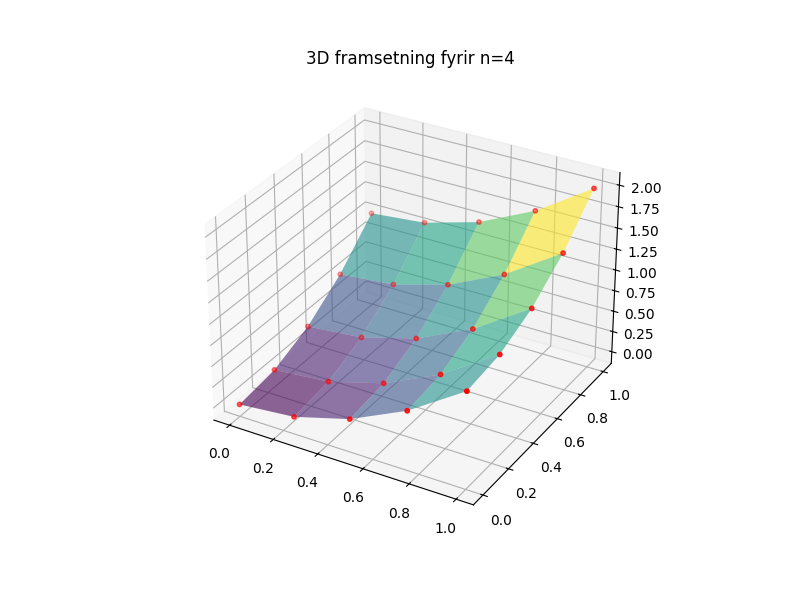
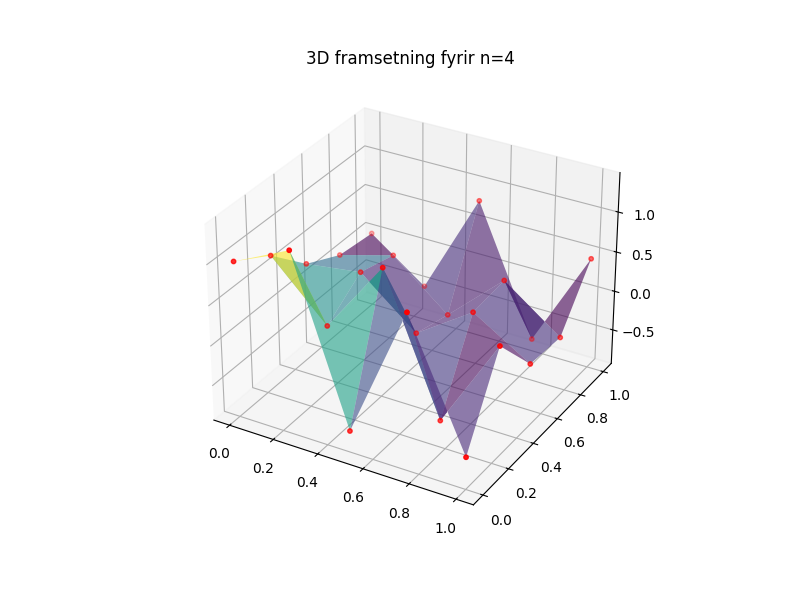
samanburður

diff --git a/romberg3.py b/romberg3.py
@@ -1,22 +1,22 @@
 import numpy as np
+import pandas as pd
+import time
 import matplotlib.pyplot as plt
-import os
-import matplotlib.patches as patches
-from mpl_toolkits.mplot3d.art3d import Poly3DCollection
 from scipy.integrate import dblquad
 
-# Ensure output directory exists
-output_dir = "output"
-os.makedirs(output_dir, exist_ok=True)
+# Föll sem við ætlum að prófa
+test_functions = {
+    "sin_cos_exp": lambda x, y: np.sin(10*x) * np.cos(10*y) + np.exp(-5 * (x**2 + y**2)),
+    "gaussian_peak": lambda x, y: np.exp(-10 * ((x - 0.3)**2 + (y - 0.7)**2)),
+    "polynomial_exp": lambda x, y: (x**3 + y**4) * np.exp(-x - y),
+    "sin_ripple": lambda x, y: np.sin(5 * np.pi * x) * np.sin(5 * np.pi * y),
+    "fractal_mix": lambda x, y: np.sin(10*x) * np.cos(10*y) + np.exp(-5 * ((x-0.5)**2 + (y-0.5)**2)) + 0.5 * np.exp(-10 * ((x-0.2)**2 + (y-0.8)**2)),
+}
 
-# Exact integral for the same region [0,1] x [0,1]
-def exact_integral():
-    result, _ = dblquad(lambda x, y: x**2 + y**2, 0, 1, lambda y: 0, lambda y: 1)
-    return result
+# Reikna nákvæmt gildi fyrir hvert fall
+exact_integrals = {name: dblquad(f, 0, 1, lambda y: 0, lambda y: 1)[0] for name, f in test_functions.items()}
 
-#####################
-### TRAPEZOIDAL RULE
-#####################
+# Trapisuregla í 2D
 def trapezoidal_2d(f, a, b, c, d, n):
     x = np.linspace(a, b, n+1)
     y = np.linspace(c, d, n+1)
@@ -26,27 +26,23 @@ def trapezoidal_2d(f, a, b, c, d, n):
     integral = 0
     for i in range(n):
         for j in range(n):
-            integral += 0.25 * (f(x[i], y[j]) + f(x[i+1], y[j]) + f(x[i], y[j+1]) + f(x[i+1], y[j+1])) * hx * hy
+            integral += f(x[i], y[j]) * hx * hy
+
     return integral
 
-def romberg_2d(f, a, b, c, d, max_iter=5):
+# Romberg fyrir trapisu
+def romberg_trapezoidal_2d(f, a, b, c, d, max_iter=5):
     R = np.zeros((max_iter, max_iter))
-    exact_value = exact_integral()
-    errors_trapezoidal = []
-
     for i in range(max_iter):
-        n = 2**i
+        n = 2**i  # Fjöldi skiptinga
         R[i, 0] = trapezoidal_2d(f, a, b, c, d, n)
-        errors_trapezoidal.append(abs(R[i, 0] - exact_value))
 
         for j in range(1, i + 1):
             R[i, j] = (4**j * R[i, j-1] - R[i-1, j-1]) / (4**j - 1)
 
-    return R[max_iter-1, max_iter-1], errors_trapezoidal
+    return R[max_iter-1, max_iter-1]
 
-#####################
-### TRIANGLE METHOD
-#####################
+# Miðpunktsregla fyrir þríhyrninga
 def midpoint_triangle(f, tri):
     x1, y1 = tri[0]
     x2, y2 = tri[1]
@@ -56,15 +52,18 @@ def midpoint_triangle(f, tri):
     area = 0.5 * abs((x2 - x1) * (y3 - y1) - (x3 - x1) * (y2 - y1))
     return f(xm, ym) * area
 
+# Skipta þríhyrningi í fjóra minni þríhyrninga
 def subdivide_triangle(tri):
     x1, y1 = tri[0]
     x2, y2 = tri[1]
     x3, y3 = tri[2]
 
+    # Miðpunktar
     m12 = ((x1 + x2) / 2, (y1 + y2) / 2)
     m23 = ((x2 + x3) / 2, (y2 + y3) / 2)
     m31 = ((x3 + x1) / 2, (y3 + y1) / 2)
 
+    # Skilgreina fjóra minni þríhyrninga
     return [
         [tri[0], m12, m31],
         [m12, tri[1], m23],
@@ -72,14 +71,13 @@ def subdivide_triangle(tri):
         [m12, m23, m31]
     ]
 
+# Romberg fyrir þríhyrninga
 def romberg_triangles(f, max_iter=5):
     tri1 = [(0, 0), (1, 0), (0, 1)]
     tri2 = [(1, 0), (1, 1), (0, 1)]
 
     R1 = np.zeros((max_iter, max_iter))
     R2 = np.zeros((max_iter, max_iter))
-    exact_value = exact_integral()
-    errors_triangles = []
 
     triangles1 = [tri1]
     triangles2 = [tri2]
@@ -88,9 +86,7 @@ def romberg_triangles(f, max_iter=5):
         R1[i, 0] = sum(midpoint_triangle(f, t) for t in triangles1)
         R2[i, 0] = sum(midpoint_triangle(f, t) for t in triangles2)
 
-        total_approx = R1[i, 0] + R2[i, 0]
-        errors_triangles.append(abs(total_approx - exact_value))
-
+        # Skipta þríhyrningum frekar niður
         triangles1 = [sub for t in triangles1 for sub in subdivide_triangle(t)]
         triangles2 = [sub for t in triangles2 for sub in subdivide_triangle(t)]
 
@@ -98,38 +94,52 @@ def romberg_triangles(f, max_iter=5):
             R1[i, j] = (4**j * R1[i, j-1] - R1[i-1, j-1]) / (4**j - 1)
             R2[i, j] = (4**j * R2[i, j-1] - R2[i-1, j-1]) / (4**j - 1)
 
-    return R1[max_iter-1, max_iter-1] + R2[max_iter-1, max_iter-1], errors_triangles
+    return R1[max_iter-1, max_iter-1] + R2[max_iter-1, max_iter-1]
 
-##########################
-### FUNCTION TO INTEGRATE
-##########################
-def test_function(x, y):
-    return x**2 + y**2
+# Niðurstöður
+results = []
 
-################################
-### RUN INTEGRATION & PLOT ERROR
-################################
-a, b = 0, 1
-c, d = 0, 1
-max_iter = 10
+for name, func in test_functions.items():
+    exact = exact_integrals[name]
 
-result_trapezoidal, errors_trapezoidal = romberg_2d(test_function, a, b, c, d, max_iter)
-result_triangles, errors_triangles = romberg_triangles(test_function, max_iter)
+    # Mæla tíma og skekkjur
+    start_time = time.time()
+    trap_result = romberg_trapezoidal_2d(func, 0, 1, 0, 1, max_iter=5)
+    trap_time = time.time() - start_time
+    trap_error = abs(trap_result - exact)
 
-# Plot error convergence
-plt.figure(figsize=(8, 6))
-iterations = np.arange(1, max_iter+1)
-plt.plot(iterations, errors_trapezoidal, marker='o', linestyle='-', label="Trapezoidal Rule", color="blue")
-plt.plot(iterations, errors_triangles, marker='s', linestyle='--', label="Triangle-Based", color="red")
+    start_time = time.time()
+    tri_result = romberg_triangles(func, max_iter=5)
+    tri_time = time.time() - start_time
+    tri_error = abs(tri_result - exact)
 
-plt.yscale("log")  # Log scale to better show convergence
-plt.xlabel("Iteration")
-plt.ylabel("Absolute Error")
-plt.title("Error Convergence of Romberg Integration Methods")
+    results.append([name, exact, trap_result, trap_error, trap_time, tri_result, tri_error, tri_time])
+
+# Búa til DataFrame
+df_results = pd.DataFrame(results, columns=["Fall", "Nákvæmt heildi", "Trapisuregla", "Trapisu skekkja",
+                                            "Trapisu keyrslutími", "Þríhyrningsaðferð", "Þríhyrnings skekkja", "Þríhyrnings keyrslutími"])
+
+# Prenta niðurstöður í fallegu töfluformi
+print("\nSamanburður á Romberg Heildun\n")
+print(df_results.to_string(index=False))
+
+# Plotta samanburð á skekkju
+plt.figure(figsize=(8,5))
+plt.bar(df_results["Fall"], df_results["Trapisu skekkja"], label="Trapisu skekkja", alpha=0.7)
+plt.bar(df_results["Fall"], df_results["Þríhyrnings skekkja"], label="Þríhyrnings skekkja", alpha=0.7)
+plt.xticks(rotation=45)
+plt.yscale("log")  # Nota log-skala til að sjá betur mismuninn
+plt.ylabel("Error")
 plt.legend()
-plt.grid(True, which="both", linestyle="--", linewidth=0.5)
-plt.savefig(os.path.join(output_dir, "error_convergence.png"))
+plt.title("Samanburður á skekkju")
 plt.show()
 
-print(f"\nFinal Romberg Integration Result (Trapezoidal Rule): {result_trapezoidal:.6f}")
-print(f"Final Romberg Integration Result (Triangles): {result_triangles:.6f}")
+# Plotta samanburð á reiknitíma
+plt.figure(figsize=(8,5))
+plt.bar(df_results["Fall"], df_results["Þríhyrnings keyrslutími"], label="Þríhyrnings keyrslutími", alpha=0.7)
+plt.bar(df_results["Fall"], df_results["Trapisu keyrslutími"], label="Trapisu keyrslutími", alpha=0.7)
+plt.xticks(rotation=45)
+plt.ylabel("Time (seconds)")
+plt.legend()
+plt.title("Samanburður á reiknitíma")
+plt.show()

diff --git a/romberg2.py b/romberg2.py
@@ -8,11 +8,11 @@ from mpl_toolkits.mplot3d.art3d import Poly3DCollection
 output_dir = "output"
 os.makedirs(output_dir, exist_ok=True)
 
-def exact_integral():
+def exact_integral(f):
     """
     Computes the exact integral for comparison using numerical integration.
     """
-    result, _ = dblquad(lambda x, y: x**2 + y**2, 0, 1, lambda y: 0, lambda y: 1)
+    result, _ = dblquad(f, 0, 1, lambda y: 0, lambda y: 1)
     return result
 
 def midpoint_triangle(f, tri):
@@ -114,7 +114,7 @@ def romberg_triangles(f, max_iter=5):
     R1 = np.zeros((max_iter, max_iter))
     R2 = np.zeros((max_iter, max_iter))
 
-    exact_value = exact_integral()
+    exact_value = exact_integral(f)
 
     print(f"Rétt gildi: {exact_value:.6f}")
     print("Ítrun     | Nálgun        | Skekkja")
@@ -129,7 +129,7 @@ def romberg_triangles(f, max_iter=5):
         R2[i, 0] = sum(midpoint_triangle(f, t)[0] for t in triangles2)
 
         plot_triangles(triangles1, triangles2, iter_num=i)
-        plot_3d_triangles(f, triangles1, triangles2, iter_num=i)  # New dynamic visualization
+        plot_3d_triangles(f, triangles1, triangles2, iter_num=i)
 
         triangles1 = [sub for t in triangles1 for sub in subdivide_triangle(t)]
         triangles2 = [sub for t in triangles2 for sub in subdivide_triangle(t)]
@@ -146,11 +146,12 @@ def romberg_triangles(f, max_iter=5):
 
     final_result = R1[max_iter-1, max_iter-1] + R2[max_iter-1, max_iter-1]
 
-    print("\nLoka niðurstaða Romberg Heildunar: (þríhyrninga): {:.6f}".format(final_result))
+    print("\nLoka niðurstaða Romberg Heildunar (þríhyrninga): {:.6f}".format(final_result))
     return final_result
 
-def test_function(x, y):
-    return x**2 + y**2
+# Define function once and pass it as an argument
+test_function = lambda x, y: np.exp(-5 * ((x - 0.5)**2 + (y - 0.5)**2)) + \
+                             0.5 * np.exp(-10 * ((x - 0.2)**2 + (y - 0.8)**2))
 
 # Execute the triangle-based Romberg integration with enhanced visualization
 romberg_triangles(test_function, max_iter=5)

diff --git a/romberg.py b/romberg.py
@@ -9,11 +9,11 @@ from scipy.integrate import dblquad
 output_dir = "output"
 os.makedirs(output_dir, exist_ok=True)
 
-def exact_integral():
+def exact_integral(f):
     """
     Computes the exact integral for comparison using numerical integration.
     """
-    result, _ = dblquad(lambda x, y: x**2 + y**2, 0, 1, lambda y: 0, lambda y: 1)
+    result, _ = dblquad(f, 0, 1, lambda y: 0, lambda y: 1)
     return result
 
 def trapezoidal_2d(f, a, b, c, d, n, ax=None, plot_3d=False):
@@ -56,6 +56,7 @@ def trapezoidal_2d(f, a, b, c, d, n, ax=None, plot_3d=False):
         plt.close()
 
     return integral
+
 def plot_trapezoids(a, b, c, d, n, iter_num):
     """
     Plots the subdivided rectangles for the trapezoidal rule in 2D.
@@ -89,7 +90,7 @@ def romberg_2d(f, a, b, c, d, max_iter=5):
     Now includes 2D visualization of trapezoidal subdivisions.
     """
     R = np.zeros((max_iter, max_iter))
-    exact_value = exact_integral()
+    exact_value = exact_integral(f)
 
     print(f"Rétt gildi: {exact_value:.6f}")
     print("Ítrun     | Nálgun        | Skekkja")
@@ -114,11 +115,12 @@ def romberg_2d(f, a, b, c, d, max_iter=5):
     return R[max_iter-1, max_iter-1], R  # Return the final result and the Romberg table
 
 # Example usage
-def test_function(x, y):
-    return x**2 + y**2  # New test function  # New test function
-
 a, b = 0, 1
 c, d = 0, 1
+
+# Define function once and pass it as an argument
+test_function = lambda x, y: np.exp(-5 * ((x - 0.5)**2 + (y - 0.5)**2)) + \
+                             0.5 * np.exp(-10 * ((x - 0.2)**2 + (y - 0.8)**2))
 
 result, R_table = romberg_2d(test_function, a, b, c, d, max_iter=5)
 print(f"Loka niðurstaða Romberg Heildunar: {result}")
